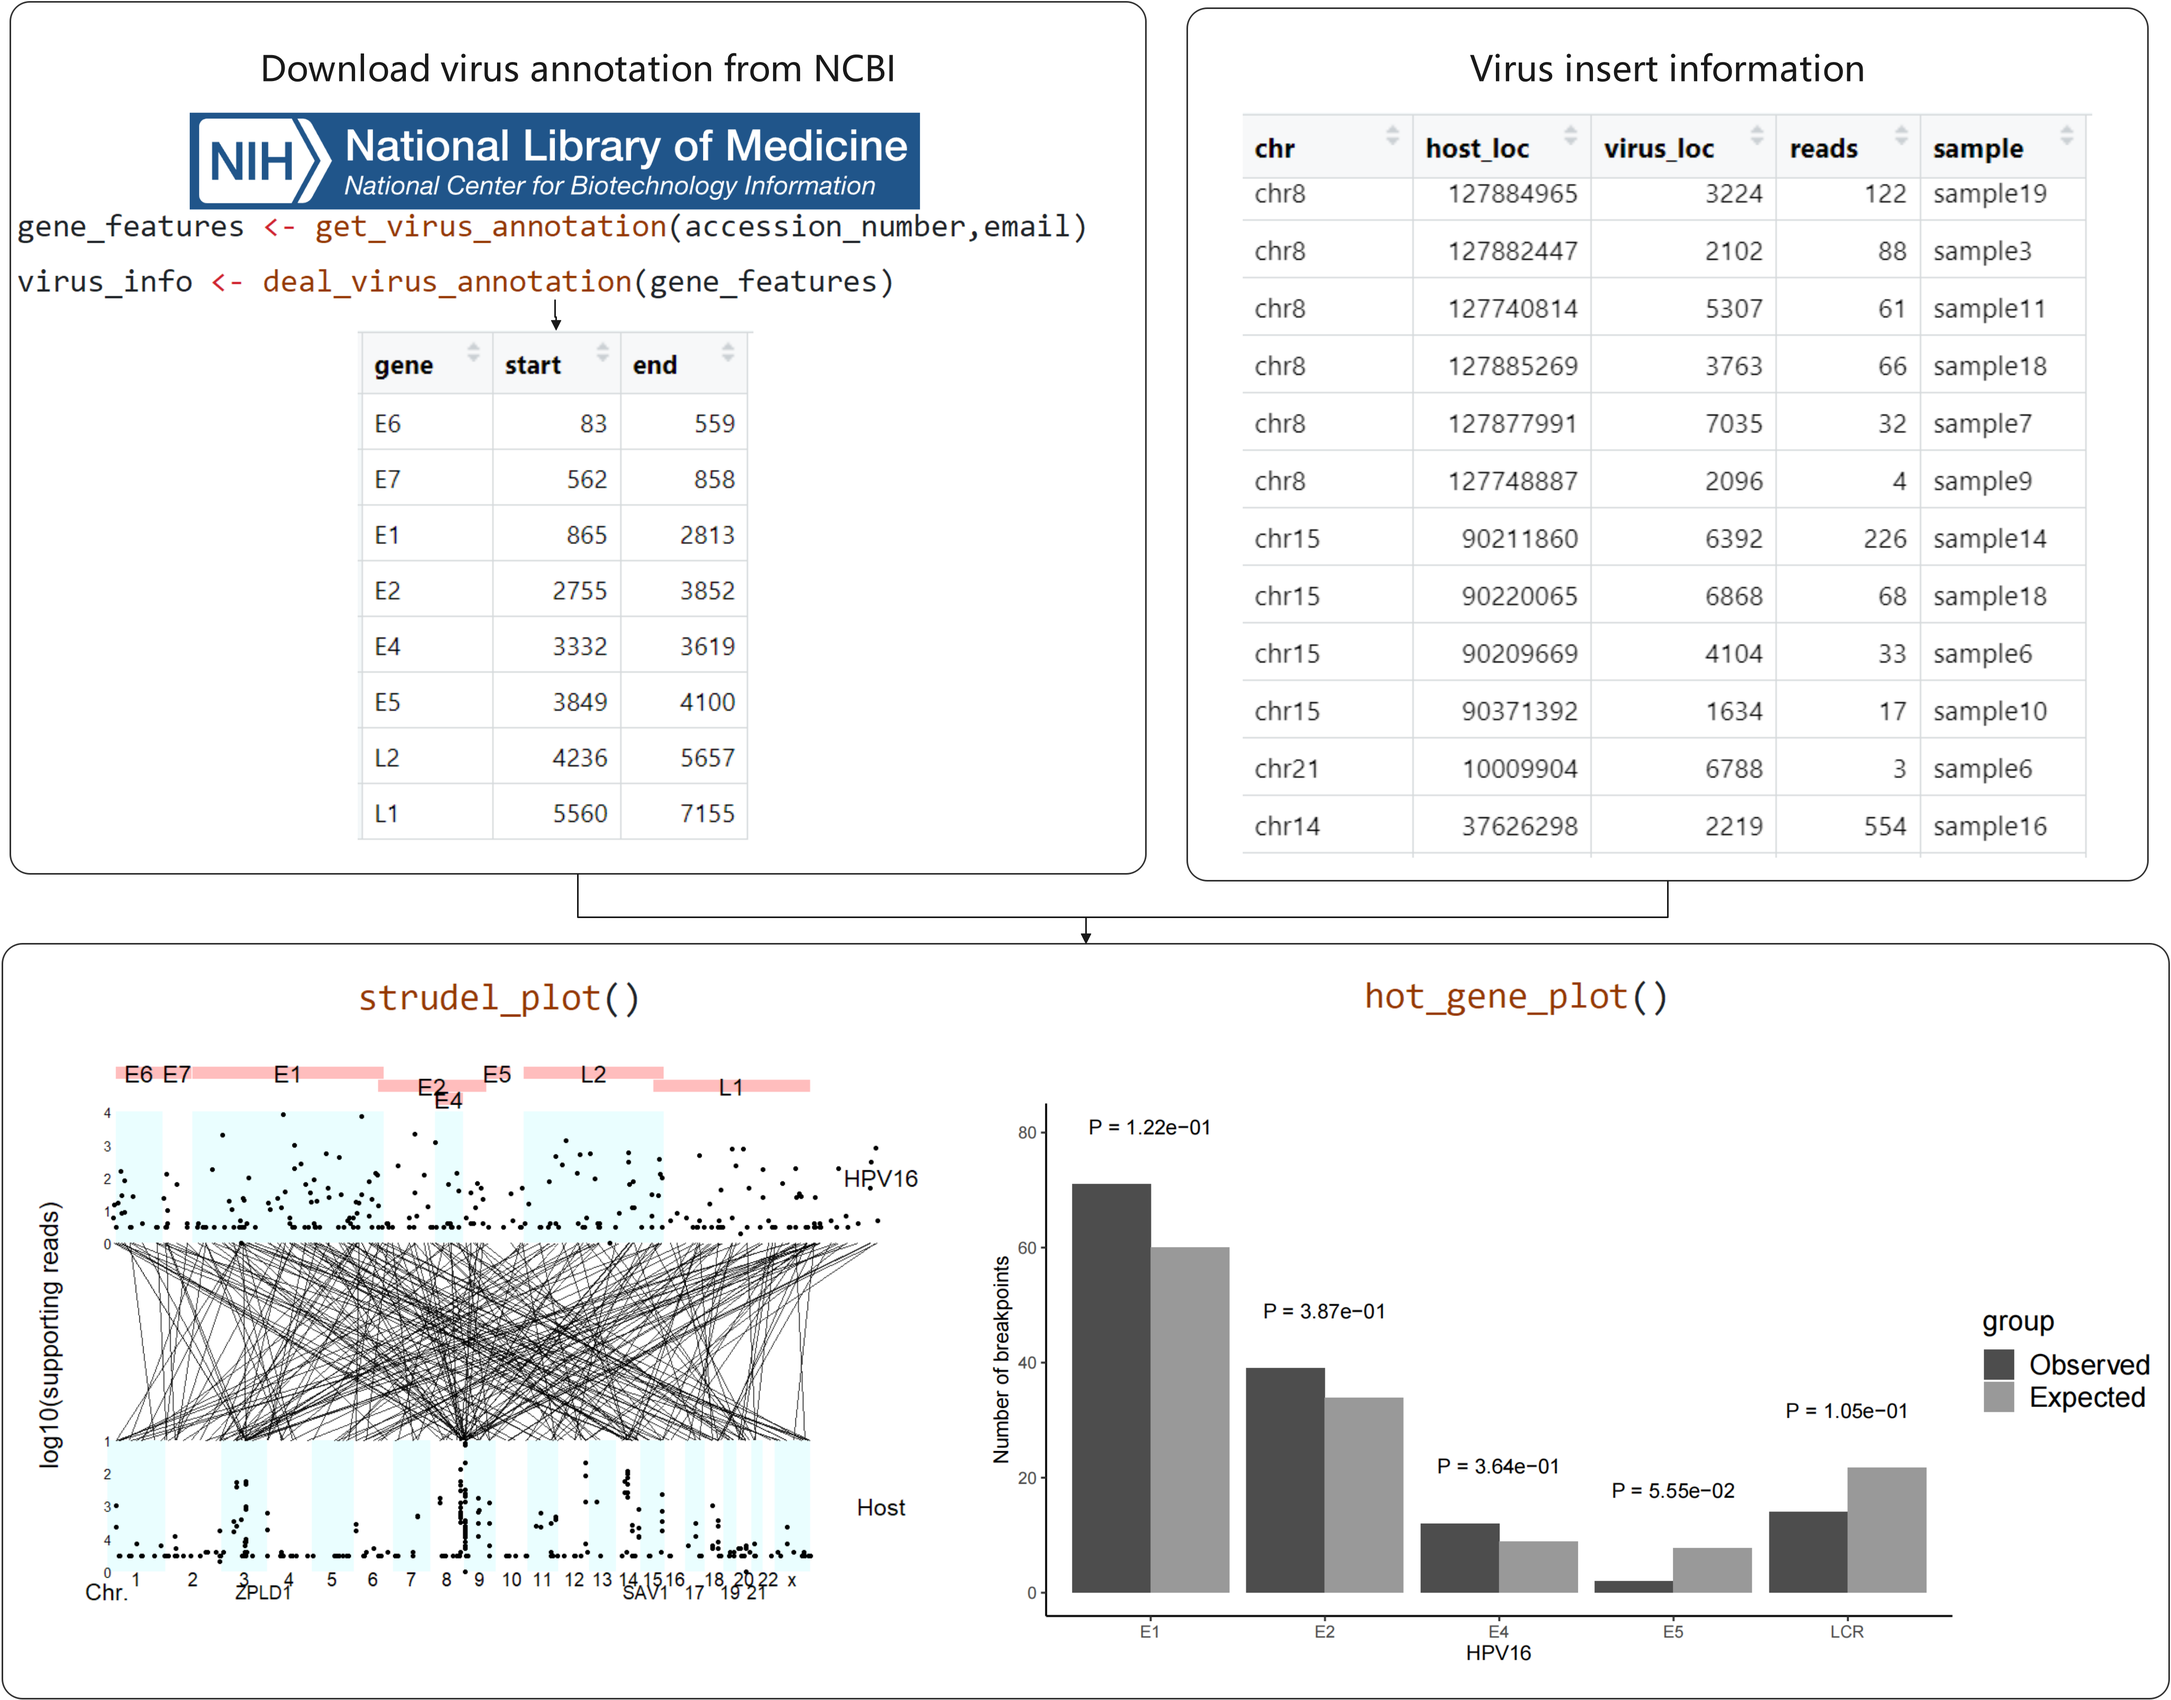
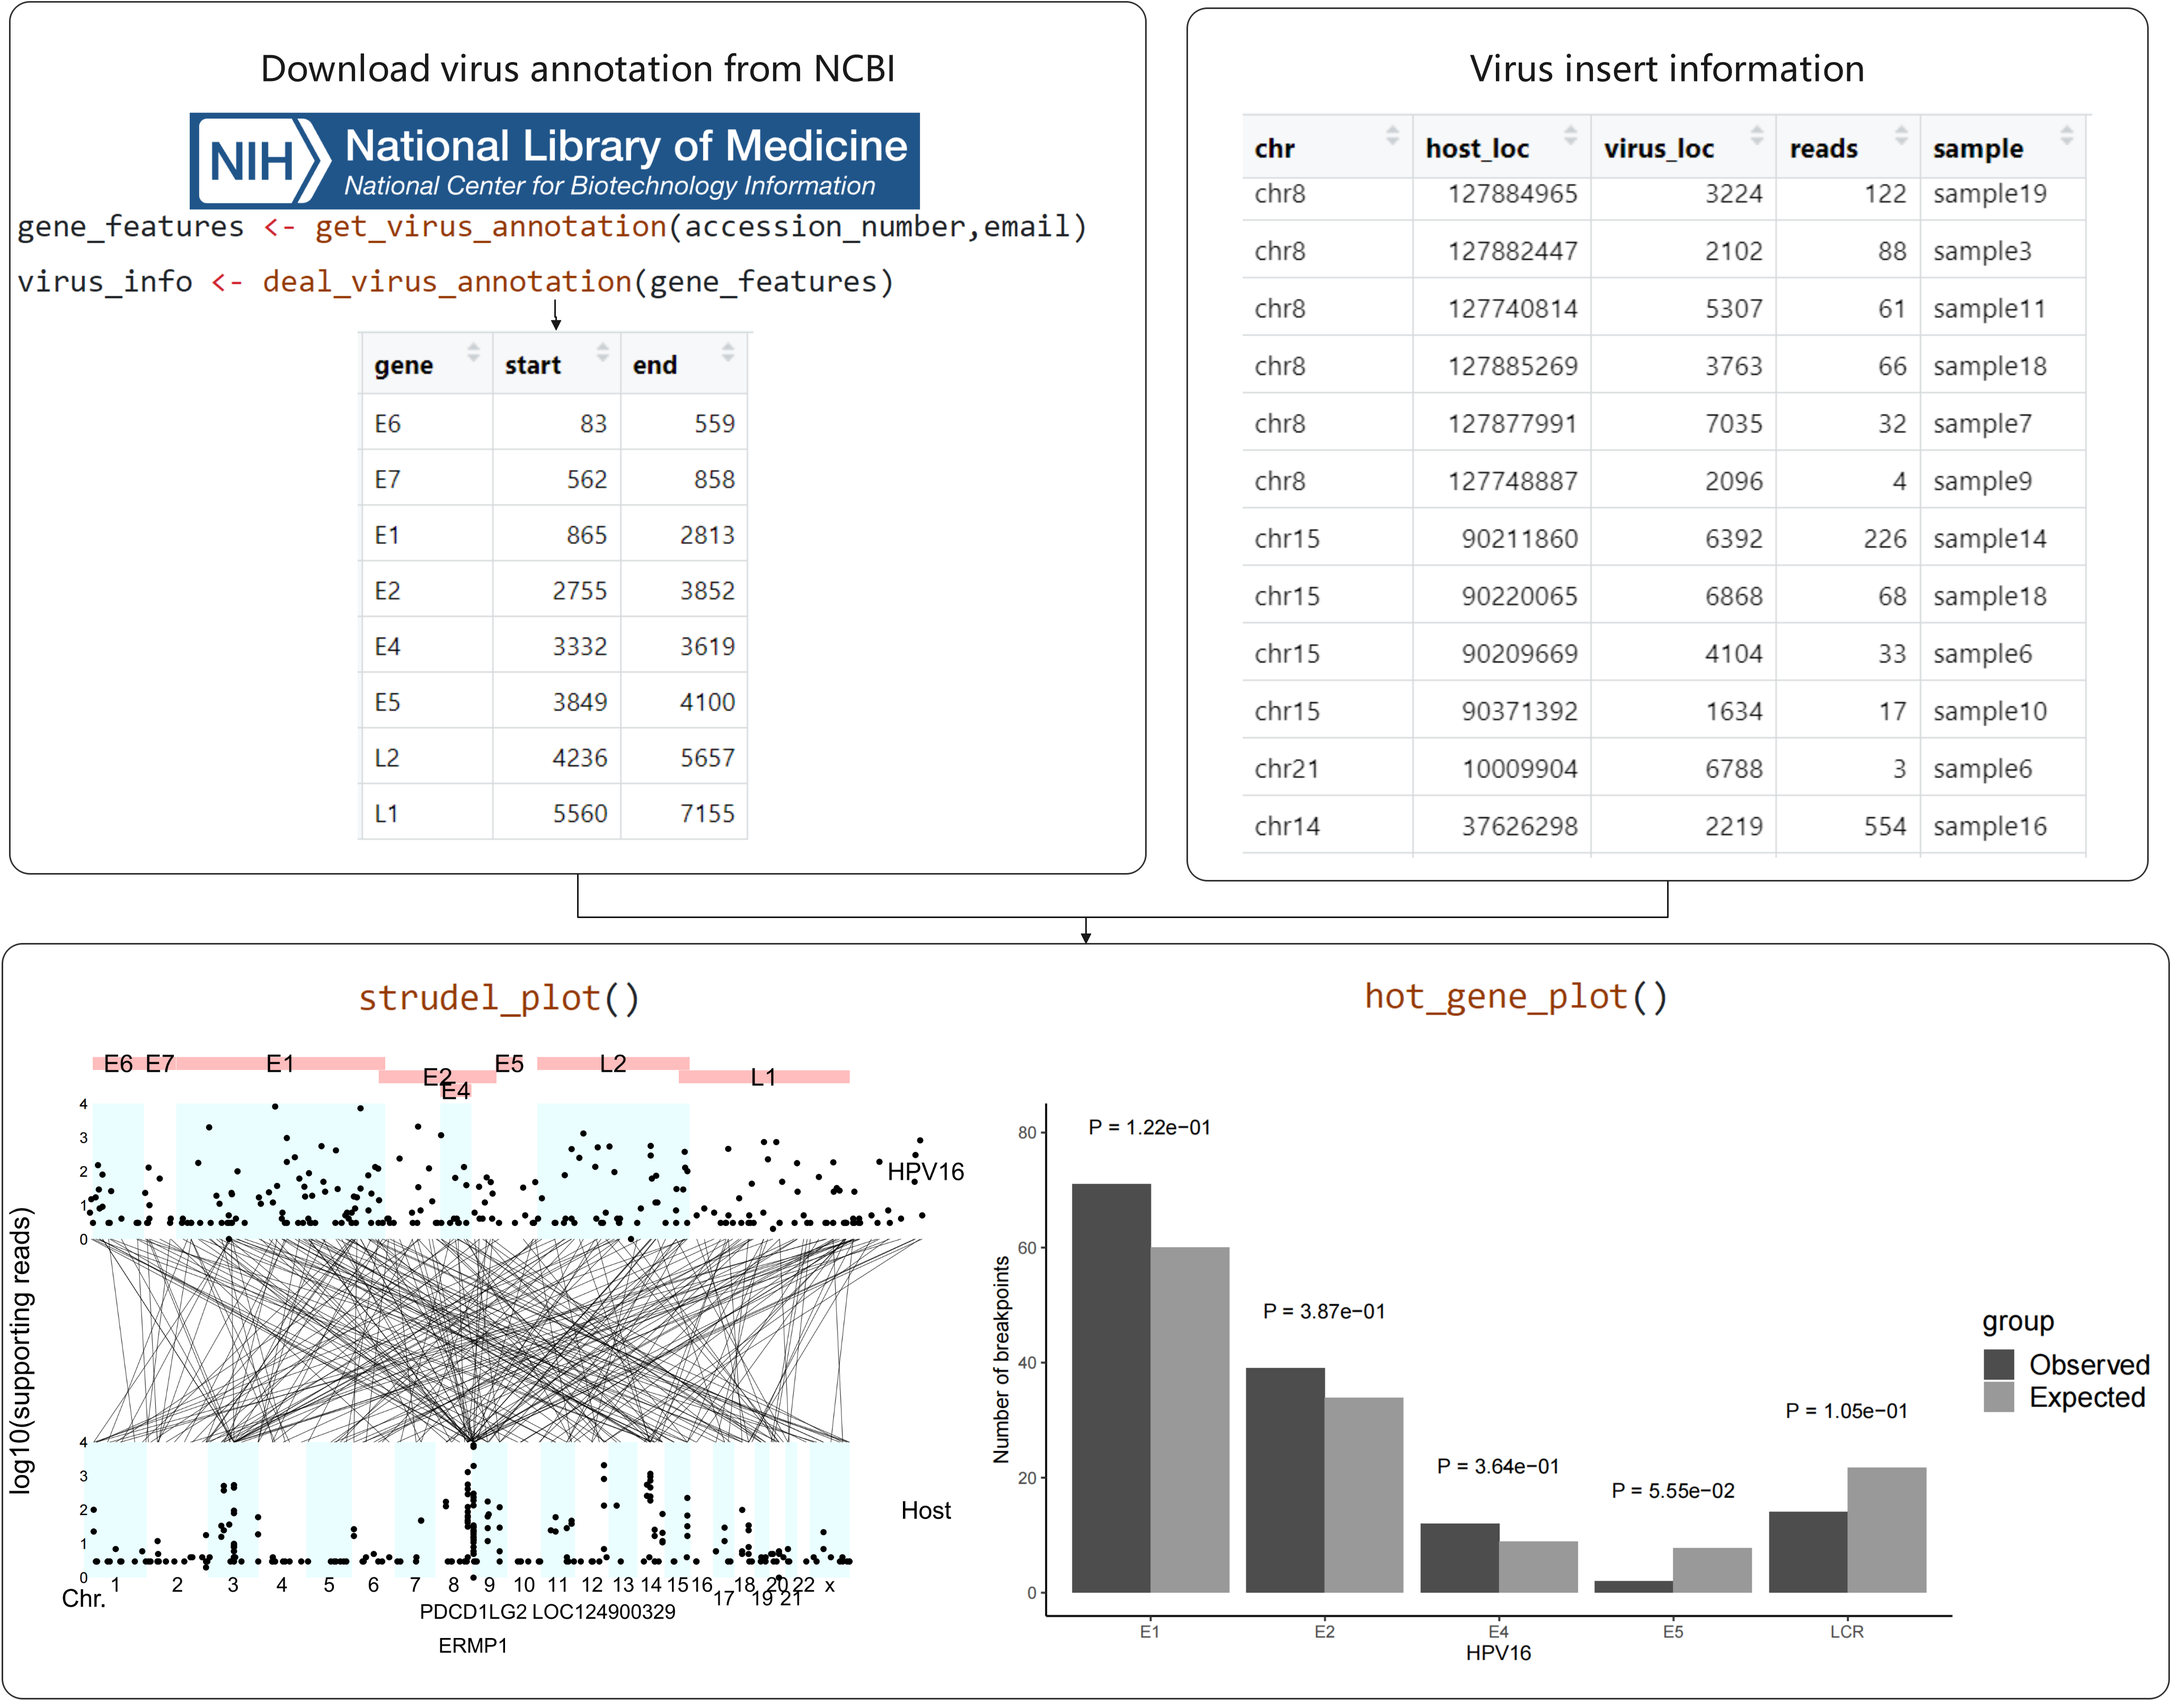
update readme

Changed region(s): [[0.0, 0.6856, 0.4374, 0.966], [0.0312, 0.6232, 0.4062, 0.6544], [0.4062, 0.8725, 0.4374, 0.9037]]

diff --git a/README.md b/README.md
@@ -89,19 +89,34 @@ data(insert_info)
 gene_features <- get_virus_annotation(accession_number = "NC_001526.2",
     email = "13766876214@163.com")
 virus_info_NC_001526 <- deal_virus_annotation(gene_features)
-strudel_plot(virus_info = virus_info_NC_001526, insert_info, hot_gene = 5)
-#> >> done...                    2024-02-16 10:54:15
+strudel_plot(virus_info = virus_info_NC_001526, insert_info, 
+             hot_gene = 3)
+#> >> done...                    2024-02-18 12:21:05
 ```
 
 <img src="man/figures/README-unnamed-chunk-6-1.png" width="100%" />
 
+hot genes of virus
+
+``` r
+hot_gene <- get_hot_gene(virus_info = virus_info_NC_001526, insert_info)
+#> >> done...                    2024-02-18 12:21:36
+insert_plot <- hot_gene_plot(hot_gene)
+```
+
+``` r
+insert_plot[[2]]
+```
+
+<img src="man/figures/README-unnamed-chunk-8-1.png" width="100%" />
+
 ``` r
 strudel_plot(virus_info = virus_info_NC_001526, insert_info, 
              hot_gene = c( "SAV1", "ZPLD1", "CHMP6", "IRS4"))
-#> >> done...                    2024-02-16 10:54:44
+#> >> done...                    2024-02-18 12:22:07
 ```
 
-<img src="man/figures/README-unnamed-chunk-7-1.png" width="100%" />
+<img src="man/figures/README-unnamed-chunk-9-1.png" width="100%" />
 
 ``` r
 data(vcf_matrix)
@@ -113,7 +128,7 @@ oncoplot(vcf_matrix, varis_color = col,
     clinical_color = cli_colors, na.value = "#F3F5F7")
 ```
 
-<img src="man/figures/README-unnamed-chunk-8-1.png" width="100%" />
+<img src="man/figures/README-unnamed-chunk-10-1.png" width="100%" />
 
 Run shinyapp
 
